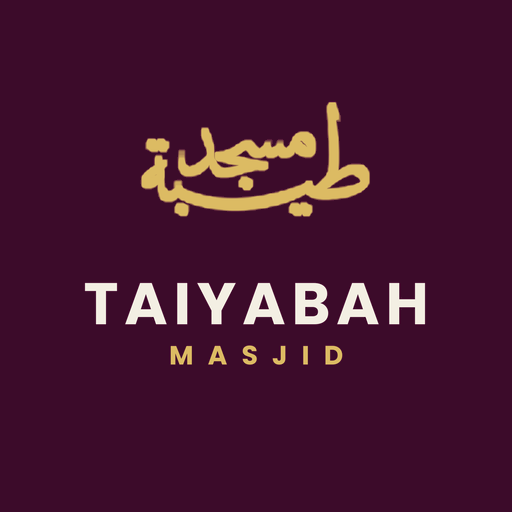
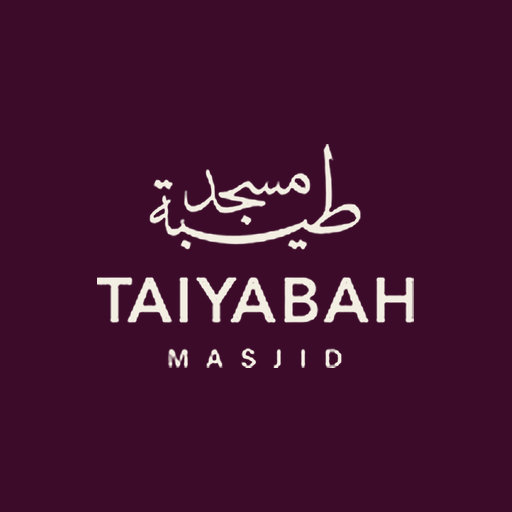
The app opens rather than appearing
Two changes that are really one: the splash and the first half-second
after it.

THE ICON IS THE CREAM WORDMARK NOW. The previous one kept the gold Arabic
and gold "MASJID" from the original artwork. Chosen deliberately over
that: the cream mark is what logo-cream.png holds, so the native splash
and the app's own opening are now drawn from the SAME file and cannot
drift apart. The artwork is placed at 62% of the icon, inside the safe
zone a launcher crops to when it masks to a circle, so the wordmark is not
clipped on any launcher shape.

THE OPENING. Android shows its splash before this page exists, then the
app simply appeared in its place — a cut, not a transition. There is now
the same picture again in HTML, on top of the app, which fades while the
mark drifts forward very slightly. Because both are logo-cream.png on
--brand-900, the handover has nothing to give it away.

Decisions, so the next person does not have to guess:

  WHY IT IS CSS AND NOT SCRIPT. This plays at the busiest moment the app
  ever has — parsing, fetching times, registering the worker — and a CSS
  animation runs on the compositor while a script-driven one would stutter
  exactly there. It also means NOTHING CAN BE TRAPPED BEHIND IT: if the
  script never runs, the veil still leaves. pointer-events are off from
  the first frame, so even while it is visible a tap reaches the app.

  IT IS IN THE MARKUP, not created by script, so it is on screen in the
[…]

Changed region(s): [[0.25, 0.1875, 0.7188, 0.5], [0.1562, 0.5312, 0.8438, 0.7188]]

diff --git a/index.html b/index.html
@@ -45,6 +45,10 @@
        value moves the whole app; 1.12 is the default because the community
        told us the old size made people squint. */
     --ts:1.12;
+    /* A strong ease-out. The browser's own is too weak to read as deliberate,
+       and this is the only curve the app needs: everything that animates here
+       is entering or leaving. */
+    --ease-out: cubic-bezier(0.23, 1, 0.32, 1);
     --brand-900:#3C0B2A;    /* hero canvas */
     --brand-800:#4B1136;
     --brand-700:#5E1844;    /* raised on dark */
@@ -122,6 +126,45 @@
   .datechip{display:inline-flex;align-items:center;gap:8px;font-size:calc(12px * var(--ts));color:#D0BFCA;
     border:1px solid rgba(255,255,255,.14);border-radius:999px;padding:5px 11px;margin-bottom:20px}
   .datechip .live{width:6px;height:6px;border-radius:50%;background:var(--gold-bright);box-shadow:0 0 0 0 rgba(220,187,99,.6);animation:pulse 2.4s infinite}
+  /* ---- the opening ----------------------------------------------------
+     Android shows a splash of its own before this page exists: the cream
+     wordmark on #3C0B2A, compiled into the app. Until now the app simply
+     appeared in its place, which is a cut rather than a transition — the
+     brand screen vanishes and the home screen is suddenly there.
+
+     This is the same picture again, in HTML, on top of the app. It is in the
+     markup rather than drawn by script, so it is on screen in the first paint
+     and there is no gap where the native splash has gone and this has not
+     arrived. Then it lifts: the veil fades while the mark grows a little, as
+     though the screen were opening rather than being swapped.
+
+     IT NEEDS NO JAVASCRIPT. The animation is CSS and runs on the compositor,
+     which matters because the moment it plays is the moment the page is at
+     its busiest — parsing, fetching prayer times, registering the worker. A
+     script-driven fade would stutter exactly here. More importantly, if the
+     script never runs at all the veil still leaves: nothing can be trapped
+     behind it. pointer-events are off from the first frame, so even while it
+     is visible a tap goes to the app underneath.
+
+     The app is NOT held back for it. Everything beneath has already painted;
+     this only covers it for half a second. */
+  .boot{position:fixed;inset:0;z-index:9000;display:grid;place-items:center;
+    background:var(--brand-900);pointer-events:none;
+    animation:boot-veil 360ms var(--ease-out) 200ms both}
+  .boot img{width:clamp(128px,36vw,176px);height:auto;
+    animation:boot-mark 360ms var(--ease-out) 200ms both}
+  @keyframes boot-veil{to{opacity:0}}
+  /* Never from scale(0) and never to it: the mark is already the right size,
+     it only drifts forward as the screen opens. */
+  @keyframes boot-mark{from{transform:scale(1)}to{transform:scale(1.06)}}
+
+  /* Reduced motion keeps the fade — it still explains that one screen is
+     becoming another — and drops the movement. */
+  @media (prefers-reduced-motion: reduce){
+    .boot{animation-duration:200ms;animation-delay:120ms}
+    .boot img{animation:none}
+  }
+
   @keyframes pulse{0%{box-shadow:0 0 0 0 rgba(220,187,99,.5)}70%{box-shadow:0 0 0 7px rgba(220,187,99,0)}100%{box-shadow:0 0 0 0 rgba(220,187,99,0)}}
   .eyebrow{font-size:calc(11px * var(--ts));letter-spacing:.24em;text-transform:uppercase;color:var(--gold-bright);margin-bottom:9px}
   .nextname{display:flex;align-items:baseline;gap:12px}
@@ -1841,6 +1884,13 @@
 </style>
 </head>
 <body>
+  <!-- Matches the native splash exactly: same artwork, same background. See
+       .boot above. aria-hidden because it says nothing a screen reader needs —
+       the page behind it is already the real one. -->
+  <div class="boot" aria-hidden="true">
+    <img src="logo-cream.png" alt="" width="139" height="100">
+  </div>
+
   <div class="topbar">
     <h1 class="vh" data-i18n="a11y.taiyabah_masjid">Taiyabah Masjid</h1>
     <img class="brandmark" src="logo-cream.png" alt="Taiyabah Masjid" width="139" height="100" data-i18n-attr="alt:a11y.taiyabah_masjid">

diff --git a/sw.js b/sw.js
@@ -5,7 +5,7 @@
 /* Taiyabah Masjid — service worker (v1 shell)
    Caches the app shell so today's times open offline.
    Push handling is stubbed; the store build wires this to OneSignal/APNs/FCM. */
-const CACHE = "taiyabah-v174";
+const CACHE = "taiyabah-v175";
 /* fonts.css and the two faces that set the first screen are shell: the app is
    expected to open with no signal, and a first launch that has to go to the
    network for its typeface renders the masjid's name in Times. The other
